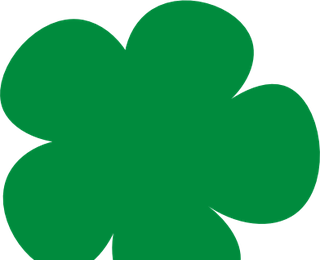
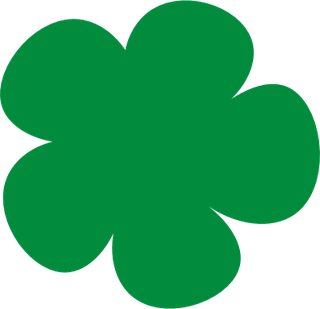
update website

diff --git a/legal-content.js b/legal-content.js
@@ -5,7 +5,7 @@ window.legalDocs = {
   },
   "policy": {
     "title": "プライバシーポリシー",
-    "body": "▶ 個人情報保護方針\n\n1.個人情報を取得するに当たっては、その利用目的をできる限り特定し、\n　その目的の達成に必要な限度において個人情報を取得致します。\n2.個人情報を、本人から直接、書面（電磁的記録を含みます。）によって\n　取得する場合には、当社の社名、個人情報保護管理者名及び連絡先、\n　利用目的等をお知らせした上で、必要な範囲で個人情報を取得致します。\n3.個人情報の利用は、本人が同意を与えた利用目的の範囲内で行います。\n　また、目的外利用を行わないための必要な対策を講じる手順を確立し、実施致します。\n4.保有する個人情報を適切な方法で管理し、\n　法令に基づく場合等を除いて、本人の同意なしに第三者に開示・提供致しません。\n5.保有する個人情報を利用目的に応じた必要な範囲内において、\n　正確、かつ、最新の状態で管理し、個人情報の漏えい、\n　滅失又は毀損等（以下「漏えい等」）のおそれに対して、\n　合理的な安全対策を講じ、漏えい等の予防に努めます。\n　また、万が一、漏えい等の問題が発生した場合は、速やかに是正措置を行います。\n6.個人情報の取扱いに関する業務を外部へ委託する場合は、\n　漏えいや第三者への提供を行わないこと等を契約により義務づけ、\n　その安全管理措置の状況を確認すること等により、\n　委託先に対する必要かつ適切な管理を実施致します。\n7.保有する個人情報についての苦情・相談に対しては、\n　問合せ窓口を設置し、適切に対応致します。\n8.個人情報の取扱いに関する法令、国が定める指針その他の規範を遵守致します。\n9.個人情報保護マネジメントシステムを定め、\n　これを定期的に見直し、継続的に改善致します。\n　 　 　 　 　 　 　 　 　 　 　 　 　 　 　 　 　 　 　 　 　 　 　 　 　 　制定日： 2026年2月1日\n\n　 　 　 　 　 　 　 　 　 　 　 　 　 　 　 　 　 　 　 　 　 　 　 　 　 　最終改訂日： 2026年2月5日\n\n　 　 　 　 　 　 　 　 　 　 　 　 　 　 　 　 　 　 　 　 　 　 　 　 　 　 DON’T TELL ANYBODY\n\n　 　 　 　 　 　 　 　 　 　 　 　 　 　 　 　 　 　 　 　 　 　 　 　 　 　代表　登本颯音\n\n\n▶ 個人情報の取扱いについて\n\n【利用目的について】\n当社は、適法かつ公正な手段で個人情報を取得し、\n以下の表に示す「利用目的」の範囲内で利用します。\n\nなお、 「利用目的」の範囲に含まれていない利用目的が生じたときは、\n個人情報を直接書面によって取得した場合はご本人様から\n新たな利用目的について同意を得たうえで、\nそれ以外の手段で取得した場合には新たな利用目的を公表したうえで利用いたします。\n\n　 　 　対象情報　 　 　 　 　 　 　 　 　 　 　 　利用目的　 　 　 　 　 　 　 　 　保有個人情報\n\nECサイト事業において　 　 　 　 　本人確認、代金の決済、\nご提出いただいた個人情報　 　 　商品及び景品の発送並びに　 　 　 　 　 　 　 　 ○\n　 　 　 　 　 　 　 　 　 　 　 　 　 　 　これらに関する連絡を行うのため\n\nサービスへのお問い合わせに　 　お問い合わせに対するご案内のため　 　 　 　 ○\n関してご提出いただいた\n個人情報\n\nお取引先様に関する　 　 　 　 　 　お取引先様管理、\n個人情報　 　 　 　 　 　 　 　 　 　 　業務連絡及び営業活動のため　 　 　 　 　 　 　 ○\n\n苦情及び相談に関する個人情報　 　苦情及び相談への回答のため　 　 　 　 　 　 ○\n\n【個人情報の提供について】\n当社は、カナダ、シンガポール、アメリカ、\nその他日本国外に所在するShopify , Inc . (以下、 「サービス提供会社」といいます。 )\nおよびその関連会社にECサイトをご利用いただいたお客様の個人情報を提供いたします。\n▶ 第三者に提供する目的\n① ECプラットフォームサービス提供会社shopify）\n　 ・通信販売にかかわる購入手続き、商品発送、会員管理等のため\n\n②決済代行会社shopify payment）\n　 ・決済手続き実施のため提供する\n▶ 個人情報の項目\n① ECプラットフォームサービス提供会社shopify）\n　 ・氏名、住所、電話番号、メールアドレス、購入商品名\n\n②決済代行会社shopify payment）\n　 ・クレジットカード番号、氏名提供の手段\n　 ・方法ECプラットフォームの利用を通じて提供\n▶ 当該情報の提供を受ける者又は提供を受ける者の組織の種類，及び属性\n① ECプラットフォームサービス提供会社shopify）\n\n②決済代行会社shopify payment）\n\n▶ 提供国シンガポール、カナダ、アメリカ提供国の法制度\nhttps : / / www . ppc . go . jp / fi les / pdf / singapore _ report . pdf\n\nhttps : / / www . ppc . go . jp / fi les / pdf / USA _ report . pdf\n\nhttps : / / www . ppc . go . jp / fi les / pdf / canada _ report . pdf\n▶ 企業のプライバシーポリシー\nhttps : / / www . shopify . jp / legal / privacy\n\n当社は、法令等に従い提供する場合を除き、\nお客様の断りなく第三者に個人情報を提供いたしません。\n\n【個人情報の取扱いの委託】\n当社は、当社の業務運営を円滑かつ効率的に遂行するため、\n個人情報の取扱いを当社と業務委託契約を締結している第三者に\n委託することがあります。なお、当該委託先に対して当社が委託する業務は\n上記の「利用目的について」の範囲に限られ、当該範囲を越えて\n個人情報を開示、使用、処分しないよう、当社は必要かつ適切な監督を実施します。\n\n【個人情報の提供の任意性について】\n当社に個人情報をご提供いただくことは任意です。\nただし、必要な個人情報をご提出いただけない場合、\nまたはご提出いただいた個人情報に不備があった場合は、\n円滑なサービスや情報の提供が受けられない可能性がございますので、\nあらかじめご了承ください。\n\n\n【個人情報の開示等に関する請求について】\n1.当社は、ご本人様から個人情報の開示、訂正・追加・削除、利用の停止・消去、\n第三者への提供の停止又は利用目的の通知（以下、 “開示等”といいます。）を\n求められた場合は、社内調査を行い、遅延なくご回答させていただきます。\n※ただし、ご請求内容によっては開示等に応じられない場合がございます。\nその場合はその理由に関してもご回答いたします。\n\n\n2.開示等の請求を行う場合、下記手順に沿って、郵送にてご請求ください。\n請求内容について不備・不足事項等ある場合、\n請求を受け付けることが出来ないことがあります。\nなお、個人情報の開示または利用目的の通知の請求について、\n1回につき事務手数料として1000円を、切手にてご負担いただきます。\n\n\n3. 「個人情報開示等請求書」により頂いた個人情報は、\nお問い合わせ対応のために使用し、それ以外には使用致しません。\n開示等の求めを行う場合は、\n以下の書類をご準備いただき、配達記録郵便にてお送り下さい。\n\n\n▶ 本人が請求する場合\n\n1.個人情報開示等請求書\n\n下記のファイルをダウンロードして、必要事項を記入してください。\n\n2.本人確認書類\n\n　運転免許証、パスポート、健康保険証などの、\n　ご本人の氏名、現住所を確認できる書類のコピー。\n\n3.1000円分の未使用の切手（事務手数料）\n\n\n▶ 代理人が請求する場合\n\n開示等の求めを行う者が、法定代理人もしくは本人が委任した代理人である場合は、\n前項の書類に加えて、それぞれ下記の書類を同封下さい。\n\n【法定代理人の場合】\n\n1.法定代理権があることを確認するための書類\n　戸籍謄本、親権者の場合は扶養家族が記入された健康保険の被保険者証のコピーも可。\n\n2.法定代理人本人であることを確認するための書類\n\n　運転免許証、パスポート、健康保険証などの、\n　代理人の氏名、現住所を確認できる書類のコピー。\n\n3.1000円分の未使用の切手（事務手数料）\n\n【委任による代理人の場合】\n\n1.委任状（個人情報開示等請求書添付書類）\n\n　上記のファイルをダウンロードして、必要事項を記入してください。\n\n2.ご本人の印鑑証明書3ケ月以内に発行されたもの）\n\n3.委任による代理人本人であることを確認するための書類\n\n　運転免許証、パスポート、健康保険証などの、\n　代理人の氏名、現住所を確認できる書類のコピー。\n\n　 4.1000円分の未使用の切手（事務手数料）"
+    "body": "▶個人情報保護方針\n\n1.個人情報を取得するに当たっては、その利用目的をできる限り特定し、その目的の達成に必要な限度において個人情報を取得致します。\n2.個人情報を、本人から直接、書面（電磁的記録を含みます。）によって取得する場合には、当社の社名、個人情報保護管理者名及び連絡先、利用目的等をお知らせした上で、必要な範囲で個人情報を取得致します。\n3.個人情報の利用は、本人が同意を与えた利用目的の範囲内で行います。また、目的外利用を行わないための必要な対策を講じる手順を確立し、実施致します。\n4.保有する個人情報を適切な方法で管理し、法令に基づく場合等を除いて、本人の同意なしに第三者に開示・提供致しません。\n5.保有する個人情報を利用目的に応じた必要な範囲内において、正確、かつ、最新の状態で管理し、個人情報の漏えい、滅失又は毀損等（以下「漏えい等」）のおそれに対して、合理的な安全対策を講じ、漏えい等の予防に努めます。また、万が一、漏えい等の問題が発生した場合は、速やかに是正措置を行います。\n6.個人情報の取扱いに関する業務を外部へ委託する場合は、漏えいや第三者への提供を行わないこと等を契約により義務づけ、その安全管理措置の状況を確認すること等により、委託先に対する必要かつ適切な管理を実施致します。\n7.保有する個人情報についての苦情・相談に対しては、問合せ窓口を設置し、適切に対応致します。\n8.個人情報の取扱いに関する法令、国が定める指針その他の規範を遵守致します。\n9.個人情報保護マネジメントシステムを定め、これを定期的に見直し、継続的に改善致します。\n制定日： 2026年2月1日\n\n最終改訂日： 2026年2月5日\n\nDON’T TELL ANYBODY\n\n代表　登本颯音\n\n▶個人情報の取扱いについて\n\n【利用目的について】\n当社は、適法かつ公正な手段で個人情報を取得し、以下の表に示す「利用目的」の範囲内で利用します。\n\nなお、 「利用目的」の範囲に含まれていない利用目的が生じたときは、個人情報を直接書面によって取得した場合はご本人様から新たな利用目的について同意を得たうえで、それ以外の手段で取得した場合には新たな利用目的を公表したうえで利用いたします。\n\n対象情報\t利用目的\t保有個人情報\nECサイト事業においてご提出いただいた個人情報\t本人確認、代金の決済、商品及び景品の発送並びにこれらに関する連絡を行うのため\t○\nサービスへのお問い合わせに関してご提出いただいた個人情報\tお問い合わせに対するご案内のため\t○\nお取引先様に関する個人情報\tお取引先様管理、業務連絡及び営業活動のため\t○\n苦情及び相談に関する個人情報\t苦情及び相談への回答のため\t○\n\n【個人情報の提供について】\n当社は、カナダ、シンガポール、アメリカ、その他日本国外に所在するShopify , Inc . (以下、 「サービス提供会社」といいます。 )およびその関連会社にECサイトをご利用いただいたお客様の個人情報を提供いたします。\n▶第三者に提供する目的\n① ECプラットフォームサービス提供会社shopify）\n・通信販売にかかわる購入手続き、商品発送、会員管理等のため\n\n②決済代行会社shopify payment）\n・決済手続き実施のため提供する\n▶個人情報の項目\n① ECプラットフォームサービス提供会社shopify）\n・氏名、住所、電話番号、メールアドレス、購入商品名\n\n②決済代行会社shopify payment）\n・クレジットカード番号、氏名提供の手段\n・方法ECプラットフォームの利用を通じて提供\n▶当該情報の提供を受ける者又は提供を受ける者の組織の種類，及び属性\n① ECプラットフォームサービス提供会社shopify）\n\n②決済代行会社shopify payment）\n\n▶提供国シンガポール、カナダ、アメリカ提供国の法制度\nhttps://www.ppc.go.jp/files/pdf/singapore_report.pdf\n\nhttps://www.ppc.go.jp/files/pdf/USA_report.pdf\n\nhttps://www.ppc.go.jp/files/pdf/canada_report.pdf\n▶企業のプライバシーポリシー\nhttps://www.shopify.jp/legal/privacy\n\n当社は、法令等に従い提供する場合を除き、お客様の断りなく第三者に個人情報を提供いたしません。\n\n【個人情報の取扱いの委託】\n当社は、当社の業務運営を円滑かつ効率的に遂行するため、個人情報の取扱いを当社と業務委託契約を締結している第三者に委託することがあります。なお、当該委託先に対して当社が委託する業務は上記の「利用目的について」の範囲に限られ、当該範囲を越えて個人情報を開示、使用、処分しないよう、当社は必要かつ適切な監督を実施します。\n\n【個人情報の提供の任意性について】\n当社に個人情報をご提供いただくことは任意です。ただし、必要な個人情報をご提出いただけない場合、またはご提出いただいた個人情報に不備があった場合は、円滑なサービスや情報の提供が受けられない可能性がございますので、あらかじめご了承ください。\n\n【個人情報の開示等に関する請求について】\n1.当社は、ご本人様から個人情報の開示、訂正・追加・削除、利用の停止・消去、第三者への提供の停止又は利用目的の通知（以下、 “開示等”といいます。）を求められた場合は、社内調査を行い、遅延なくご回答させていただきます。\n※ただし、ご請求内容によっては開示等に応じられない場合がございます。その場合はその理由に関してもご回答いたします。\n\n2.開示等の請求を行う場合、下記手順に沿って、郵送にてご請求ください。請求内容について不備・不足事項等ある場合、請求を受け付けることが出来ないことがあります。なお、個人情報の開示または利用目的の通知の請求について、1回につき事務手数料として1000円を、切手にてご負担いただきます。\n\n3. 「個人情報開示等請求書」により頂いた個人情報は、お問い合わせ対応のために使用し、それ以外には使用致しません。開示等の求めを行う場合は、以下の書類をご準備いただき、配達記録郵便にてお送り下さい。\n\n▶本人が請求する場合\n\n1.個人情報開示等請求書\n\n下記のファイルをダウンロードして、必要事項を記入してください。\n\n2.本人確認書類\n\n運転免許証、パスポート、健康保険証などの、ご本人の氏名、現住所を確認できる書類のコピー。\n\n3.1000円分の未使用の切手（事務手数料）\n\n▶代理人が請求する場合\n\n開示等の求めを行う者が、法定代理人もしくは本人が委任した代理人である場合は、前項の書類に加えて、それぞれ下記の書類を同封下さい。\n\n【法定代理人の場合】\n\n1.法定代理権があることを確認するための書類\n戸籍謄本、親権者の場合は扶養家族が記入された健康保険の被保険者証のコピーも可。\n\n2.法定代理人本人であることを確認するための書類\n\n運転免許証、パスポート、健康保険証などの、代理人の氏名、現住所を確認できる書類のコピー。\n\n3.1000円分の未使用の切手（事務手数料）\n\n【委任による代理人の場合】\n\n1.委任状（個人情報開示等請求書添付書類）\n\n上記のファイルをダウンロードして、必要事項を記入してください。\n\n2.ご本人の印鑑証明書3ケ月以内に発行されたもの）\n\n3.委任による代理人本人であることを確認するための書類\n\n運転免許証、パスポート、健康保険証などの、代理人の氏名、現住所を確認できる書類のコピー。\n\n4.1000円分の未使用の切手（事務手数料）\n"
   },
   "commerce": {
     "title": "特定商取引法に基づく表記",

diff --git a/app.js b/app.js
@@ -1,5 +1,5 @@
 const A = './assets/';
-const ARTWORK_VERSION = '20261004-1';
+const ARTWORK_VERSION = '20261004-2';
 function artworkUrl(file) {
   return `${A}${file}?v=${ARTWORK_VERSION}`;
 }
@@ -44,9 +44,11 @@ const frameHeight = {
   'product-dream': 1090, 'product-sunshine': 1108
 };
 
+const CART_SESSION_KEY = 'dtay-cart-session-v1';
+
 function readCart() {
   try {
-    const saved = localStorage.getItem('dtay-cart');
+    const saved = sessionStorage.getItem(CART_SESSION_KEY);
     if (saved === null) return {};
     const parsed = JSON.parse(saved);
     if (!parsed || typeof parsed !== 'object' || Array.isArray(parsed)) return {};
@@ -156,7 +158,7 @@ function closeProduct() {
 }
 
 function saveCart() {
-  try { localStorage.setItem('dtay-cart', JSON.stringify(state.cart)); } catch { /* local preview can run with storage disabled */ }
+  try { sessionStorage.setItem(CART_SESSION_KEY, JSON.stringify(state.cart)); } catch { /* local preview can run with storage disabled */ }
 }
 
 function addToBox(id) {
@@ -286,11 +288,11 @@ function productImageStyle(id) {
 
 const flow3CharacterLayouts = {
   home: [
-    { src: 'character-21-edge.png', left: 0, top: 395.5, width: 40, height: 32.5 },
+    { src: 'character-21-edge.png', left: 0, top: 388.5, width: 40 },
     { id: 20, left: 6, top: 359.5, width: 108, height: 60 },
     { id: 25, left: 58.5, top: 383.5, width: 87.7, height: 57 },
     { id: 23, left: 113, top: 362, width: 71.3, height: 63.9 },
-    { id: 27, left: 183, top: 383, width: 77.6, height: 62.8 },
+    { id: 27, left: 166, top: 383, width: 77.6, height: 62.8 },
     { id: 26, left: 220.5, top: 370, width: 71, height: 45 },
     { id: 29, left: 252.7, top: 354.3, width: 122.2, height: 95 },
     { id: 28, left: 344.6, top: 390.3, width: 57.8, height: 25.5 },
@@ -721,6 +723,12 @@ function updatePageGeometry() {
     footer.style.top = `${footerY}px`;
     board.style.setProperty('--frame-height', `${footerY + 200}px`);
   }
+  if (board?.classList.contains('screen-policy') && footer) {
+    const body = board.querySelector('.legal-copy');
+    const footerY = body.offsetTop + body.offsetHeight + 32;
+    footer.style.top = `${footerY}px`;
+    board.style.setProperty('--frame-height', `${footerY + 200}px`);
+  }
   updateFloatingBox();
 }
 
@@ -761,8 +769,16 @@ function legalPage(page) {
   const layout = legalLayout[page];
   return `<main class="legal-screen legal-${page}">
     <h1 class="legal-title">${doc.title}</h1>
-    <article class="legal-copy" style="left:${layout.left}px;top:${layout.top}px;width:${layout.width}px;--legal-line:${layout.line}px">${escapeHtml(doc.body)}</article>
+    <article class="legal-copy" style="left:${layout.left}px;top:${layout.top}px;width:${layout.width}px;--legal-line:${layout.line}px">${page === 'policy' ? policyBodyHtml(doc.body) : escapeHtml(doc.body)}</article>
   </main>`;
+}
+
+function policyBodyHtml(body) {
+  return body.split(/(対象情報\t利用目的\t保有個人情報\n(?:[^\n]*\t[^\n]*\n?)+)/).map((part) => {
+    if (!part.startsWith('対象情報\t')) return escapeHtml(part);
+    const rows = part.trim().split('\n').map((row) => row.split('\t'));
+    return `<table class="policy-purpose-table"><thead><tr>${rows[0].map((cell) => `<th scope="col">${escapeHtml(cell)}</th>`).join('')}</tr></thead><tbody>${rows.slice(1).map((row) => `<tr>${row.map((cell) => `<td>${escapeHtml(cell)}</td>`).join('')}</tr>`).join('')}</tbody></table>`;
+  }).join('');
 }
 
 function escapeHtml(value) {

diff --git a/styles.css b/styles.css
@@ -111,7 +111,7 @@ html[data-navigation-motion="footer-slide"]::view-transition-new(root) { animati
 ::view-transition-new(shop-tab-label-sticker) { animation: crossfade-in 500ms cubic-bezier(.42, 0, .58, 1) both; }
 @keyframes product-panel-enter { from { transform: translateX(-100%); } to { transform: translateX(0); } }
 @keyframes product-panel-leave { from { transform: translateX(0); } to { transform: translateX(-100%); } }
-::view-transition-new(product-details-panel) { animation: product-panel-enter 650ms cubic-bezier(.22, 1, .36, 1) both; }
+::view-transition-new(product-details-panel) { animation: product-panel-enter 1100ms cubic-bezier(.4, 0, .2, 1) 500ms both; }
 ::view-transition-old(product-details-panel) { animation: product-panel-leave 650ms cubic-bezier(.22, 1, .36, 1) both; }
 .fallback-crossfade-out {
   position: absolute !important;
@@ -944,6 +944,21 @@ html[data-navigation-motion="footer-slide"]::view-transition-new(root) { animati
   white-space: pre-wrap;
   overflow-wrap: anywhere;
 }
+.policy-purpose-table {
+  width: 100%;
+  border-collapse: collapse;
+  table-layout: fixed;
+  white-space: normal;
+  font: inherit;
+}
+.policy-purpose-table th,
+.policy-purpose-table td {
+  padding: 4px 6px 4px 0;
+  text-align: left;
+  vertical-align: top;
+}
+.policy-purpose-table th:last-child,
+.policy-purpose-table td:last-child { width: 52px; text-align: center; padding-right: 0; }
 
 /* Menu overlay stays within the mobile frame while the drawer enters from the right. */
 .menu-backdrop {
@@ -1111,7 +1126,7 @@ html[data-navigation-motion="footer-slide"]::view-transition-new(root) { animati
 .add-circle::after { transform: translate(-50%, -50%) rotate(90deg); }
 .send-button { display: grid; place-items: center; padding: 0; line-height: 1; }
 html[data-navigation-motion="product-panel"]::view-transition-old(root), html[data-navigation-motion="product-panel"]::view-transition-new(root) { animation: none; opacity: 1; }
-.panel-slide-in { animation: product-panel-enter 650ms cubic-bezier(.22, 1, .36, 1) both; }
+.panel-slide-in { animation: product-panel-enter 1100ms cubic-bezier(.4, 0, .2, 1) 500ms both; }
 .box-quantity { display: grid; grid-template-columns: repeat(4, 1fr); justify-items: center; }
 .box-quantity .remove-item { position: relative; width: 24px; margin: 0; border: 0; }
 .box-quantity .remove-item::after { content: ''; position: absolute; top: 7px; right: -3px; height: 10px; border-right: 1px solid #ffc067; }

diff --git a/assets/README.md b/assets/README.md
@@ -18,6 +18,6 @@ These SVGs were exported from the original Figma editor. No paths were redrawn.
 
 ## High resolution artwork replacements
 
-`character-17.png` through `character-29.png` and `character-21-edge.png` are exported from the PDF-compatible vector artwork in the user-provided `colorful_objects.ai`. The source is rendered at 8 pixels per PDF point. Individual figures retain the previous canvas proportions, transparent margins and orientation, at four times the previous output dimensions. The edge variant retains its bottom clipping. No characters are generated or redrawn.
+`character-17.png` through `character-29.png` and `character-21-edge.png` are exported from the PDF-compatible vector artwork in the user-provided `colorful_objects.ai`. The source is rendered at 8 pixels per PDF point. Individual figures retain the previous canvas proportions, transparent margins and orientation, at four times the previous output dimensions. The edge variant contains the complete blank green clover without bottom clipping. No characters are generated or redrawn.
 
 The five active product images are derived from the supplied `staychildforever.png`, `thingsoftheart.png`, `wish star.png`, `timetodream mirror.png` and `shunshine mirror.png`. Their transparent margins and rotations are matched to the previous site artwork, preserving the existing display geometry. Output sizes: Stay 752×740, Heart 1236×1240, Wish star 1080×1084, and each mirror 3600×3600. Source resolution and detail, rather than output dimensions alone, determine sharpness.
